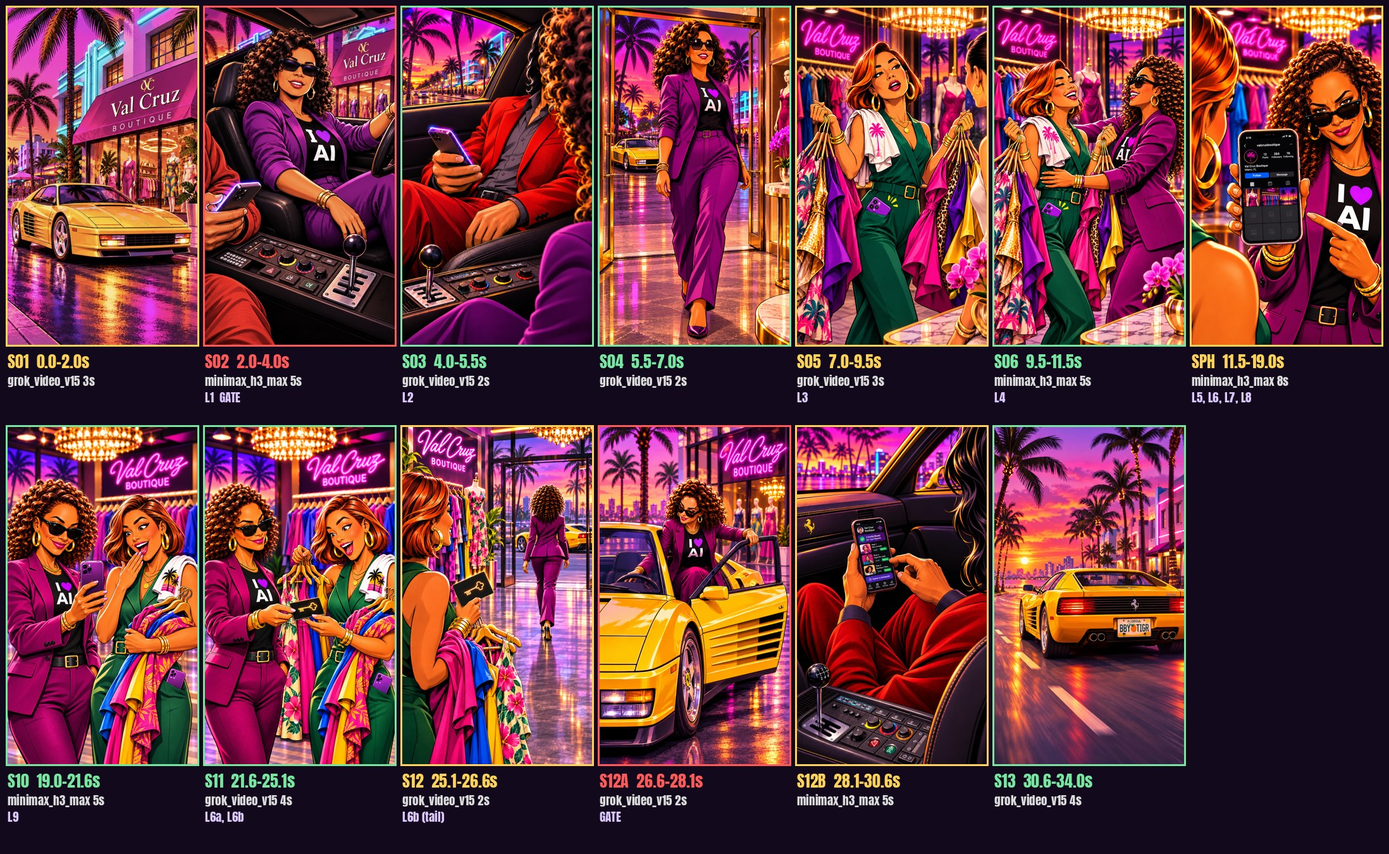
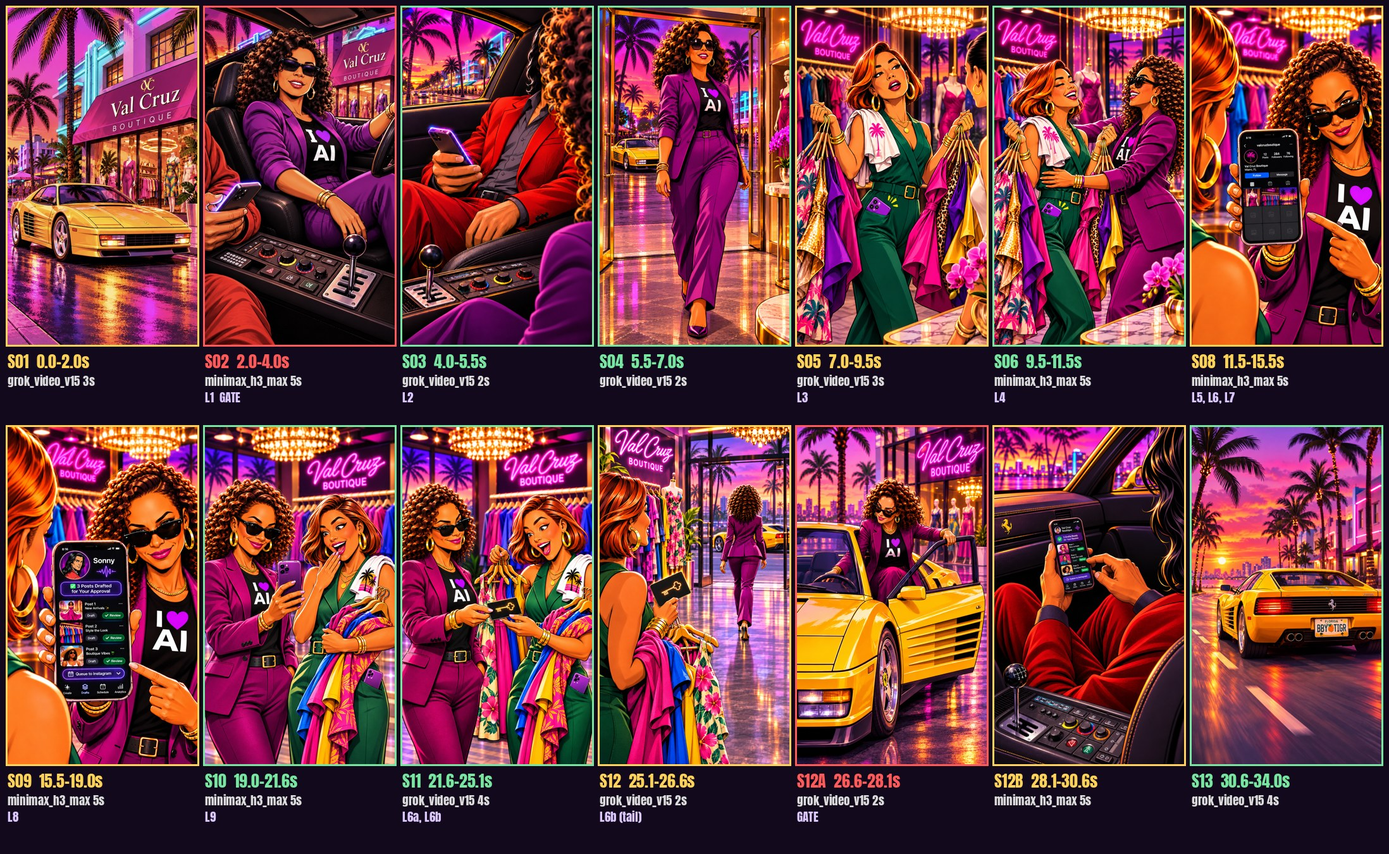
EP03: restore S09 (Sonny drafts on Noelle's phone) as its own shot
v1 merged S08/S09 and only borrowed S09's screen. Now S08 11.5-15.5 and
S09 15.5-19.0 with a punch-in cut and post-built draft/review/queue animation.

Claude-Session: https://claude.ai/code/session_01Qa5QbNHL5aow6tTLM7cmJz

diff --git a/video-projects/unlocking-ai-miami-takeover/scripts/ep03/build_manifest.py b/video-projects/unlocking-ai-miami-takeover/scripts/ep03/build_manifest.py
@@ -56,16 +56,21 @@ shots = [
   "Noelle and Val laugh together warmly; Noelle gives Val a gentle side hug, Val keeps holding all the hangers. Small natural head and shoulder movement only, curls moving softly. Static camera.",
   ["neon sign", "chandelier", "dresses on hangers"], "static", dialogue="L4",
   extra={"lipsync": "test on Noelle only; fallback: line plays over the laugh, no sync", "notes": "Arm check passed at 4x: Noelle has one arm across Val's back and one hand at Val's waist."}),
- shot("PH", [11.5, 19.0], "S08_user_instagram.png", "minimax_h3_max 768p start=end=keyframe + post-built phone screen", 8,
-  "Merged S07+S08+S09: Noelle calls out the ghost-town Instagram, Val admits it, 'I know a guy', screen transforms into Sonny's drafts",
+ shot("08", [11.5, 15.5], "S08_user_instagram.png", "minimax_h3_max 768p start=end=keyframe (src 0-4.0s) + original screen re-composited", 5,
+  "Noelle calls out the ghost-town Instagram; Val admits it; 'I know a guy'",
   "Noelle holds the phone steady toward camera and points at it, with a small playful head tilt and a knowing smirk while she talks. The phone does not move or rotate. Val's hair at the left edge sways slightly. Static camera.",
-  ["phone size, position, angle and screen (screen is replaced in post)", "neon sign"], "static",
-  dialogue=["L5", "L6", "L7", "L8"],
-  extra={"screen": "post-built (scripts/ep03/sonny_ui_anim.py, Stage B): 11.5-15.8 sparse grid from S08 frame; 15.8 wipe to Sonny UI; drafts 1-3 pop at 16.0/16.6/17.2 marked 'Draft'; Review chips turn green 17.8-18.4; 'Queue to Instagram' stays unpressed. Thumbnails and layout cut from S09_user_sonny_drafts.png with a feathered mask and fitted to the S08 phone with a perspective warp.",
-          "why_merged": "Only one keyframe exists for S07/S08, and S08/S09 are near-identical compositions. Project rule: never jump-cut near-identical keyframes; merge and build the change in post.",
-          "lipsync": "Noelle lines L5 and L7 only", "secondary_keyframe": kf("S09_user_sonny_drafts.png"),
-          "flags": ["S09 app header shows Sonny's full face as the avatar, which breaks the 'face concealed' rule. Plan: replace it in post with a hair-silhouette and waveform badge.",
-                    "Instagram-style profile shows '12 Posts' but only 3 tiles are filled. Harmless, and leave it (no numbers are animated)."]}),
+  ["phone size, position, angle and screen", "neon sign"], "static; last 0.35s free digital push-in toward the phone, matching S09's phone scale for the cut",
+  dialogue=["L5", "L6", "L7"],
+  extra={"screen": "The keyframe's own sparse-grid screen is masked and re-composited each frame so text can't warp.", "lipsync": "Noelle lines L5 and L7 only",
+         "flags": ["Instagram-style profile shows '12 Posts' but only 3 tiles are filled. Harmless; leave it (no numbers are animated)."]}),
+ shot("09", [15.5, 19.0], "S09_user_sonny_drafts.png", "minimax_h3_max 768p start=end=keyframe (src 0-3.5s) + post-built screen animation", 5,
+  "Noelle shows Sonny at work on her phone: drafts appear and get queued for Val's review",
+  "Noelle holds the phone up close to camera and points at the screen with her other hand, confident smirk, curls moving softly. The phone does not move or rotate. Val's shoulder and hair stay in the left foreground. Static camera.",
+  ["phone size, position, angle and screen (screen animated in post)", "neon sign", "chandelier"], "static",
+  dialogue=["L8"],
+  extra={"cut_in": "Punch-in on a whoosh at 15.5: S08 ends on a digital push toward the phone, so the bigger S09 phone reads as Noelle thrusting it at Val, not as a jump cut between near-identical frames.",
+         "screen": "post-built over the user's frame (scripts/ep03/sonny_ui_anim.py, Stage B): 15.5 Sonny header, waveform animating while L8 plays; banner '3 Posts Drafted for Your Approval' types in; Posts 1-3 pop in at 15.9/16.5/17.1 tagged 'Draft'; each 'Review' chip lights green with a tick 17.6/17.9/18.2; 'Queue to Instagram' and the Schedule tab pulse at 18.4 (highlighted, not pressed: Val still has to approve). All elements cut from this frame with feathered masks, so the layout is exactly the user's.",
+         "flags": ["App avatar shows Sonny's full face, which breaks 'face concealed' (G4). Plan: cover it in post with a hair-silhouette and waveform badge."]}),
  shot("10", [19.0, 21.6], "S10_user.png", "minimax_h3_max 768p start=end=keyframe", 5,
   "Val's amazed reaction (src 0-2.6s)",
   "Val's eyes widen and she gasps in delighted disbelief, hand at her mouth, then speaks excitedly, holding her clothes. Noelle beside her smiles calmly at her phone. Small natural movement only. Static camera.",
@@ -105,10 +110,10 @@ dialogue = [
  {"id": "L2", "speaker": "SONNY", "text": "Nah, I'm good here.", "shot": "03", "mode": "off-camera, no sync"},
  {"id": "L3", "speaker": "VAL", "text": "Noelle! Girl!", "shot": "05", "mode": "lipsync"},
  {"id": "L4", "speaker": "NOELLE", "text": "Val! What is going on here?", "shot": "06", "mode": "over laugh (sync test)"},
- {"id": "L5", "speaker": "NOELLE", "text": "Your Instagram's a ghost town!", "shot": "PH", "mode": "lipsync"},
- {"id": "L6", "speaker": "VAL", "text": "I barely have time to post!", "shot": "PH", "mode": "off-camera"},
- {"id": "L7", "speaker": "NOELLE", "text": "I know a guy.", "shot": "PH", "mode": "lipsync"},
- {"id": "L8", "speaker": "SONNY", "text": "Three posts ready for your approval.", "shot": "PH", "mode": "device audio (phone EQ)"},
+ {"id": "L5", "speaker": "NOELLE", "text": "Your Instagram's a ghost town!", "shot": "08", "mode": "lipsync"},
+ {"id": "L6", "speaker": "VAL", "text": "I barely have time to post!", "shot": "08", "mode": "off-camera"},
+ {"id": "L7", "speaker": "NOELLE", "text": "I know a guy.", "shot": "08", "mode": "lipsync"},
+ {"id": "L8", "speaker": "SONNY", "text": "Three posts ready for your approval.", "shot": "09", "mode": "device audio (phone EQ)"},
  {"id": "L9", "speaker": "VAL", "text": "Wait! He did all that? How do I get this?", "shot": "10", "mode": "lipsync"},
  {"id": "L6a", "speaker": "NOELLE", "text": "(event slot)", "shot": "11", "mode": "VO, lips closed"},
  {"id": "L6b", "speaker": "NOELLE", "text": "(event slot)", "shot": "11-12", "mode": "VO"},
@@ -132,7 +137,7 @@ captions = [
  {"id": "c5", "text": "Your Instagram's a ghost town!", "t": [11.65, 13.5], "y": 1600},
  {"id": "c6", "text": "I barely have time to post!", "t": [13.55, 15.1], "y": 1600},
  {"id": "c7", "text": "I know a guy.", "t": [15.15, 16.2], "y": 1600},
- {"id": "c8", "text": "\"Three posts ready for your approval.\"", "t": [16.25, 18.95], "y": 1600},
+ {"id": "c8", "text": "\"Three posts ready for your approval.\"", "t": [16.25, 18.95], "y": 1660},
  {"id": "c9", "text": "Wait! He did all that? How do I get this?", "t": [19.05, 21.55]},
  {"id": "c10", "text": "", "t": [21.7, 22.9]},
  {"id": "c11", "text": "", "t": [23.0, 26.0]},
@@ -143,9 +148,9 @@ sfx = [
  {"type": "boutique_ambience", "at": 5.5, "dur": 19.6, "gain_db": -24},
  {"type": "door_chime", "at": 5.6},
  {"type": "fabric_rustle", "at": 7.1}, {"type": "fabric_rustle", "at": 8.6},
- {"type": "whoosh", "at": 15.75, "_note": "screen wipe to Sonny UI"},
- {"type": "ping", "at": 16.0}, {"type": "ping", "at": 16.6}, {"type": "ping", "at": 17.2},
- {"type": "click", "at": 17.8}, {"type": "click", "at": 18.1}, {"type": "click", "at": 18.4},
+ {"type": "whoosh", "at": 15.4, "_note": "punch-in to S09"},
+ {"type": "ping", "at": 15.9}, {"type": "ping", "at": 16.5}, {"type": "ping", "at": 17.1},
+ {"type": "click", "at": 17.6}, {"type": "click", "at": 17.9}, {"type": "click", "at": 18.2}, {"type": "chime", "at": 18.4},
  {"type": "card_accent", "at": 22.1, "_note": "low shimmer + soft hit as the card changes hands"},
  {"type": "door_open", "at": 26.7}, {"type": "door_close", "at": 27.95},
  {"type": "click", "at": 29.0}, {"type": "click", "at": 29.6},
@@ -163,7 +168,7 @@ m = {
  "license_plate": "BBY TIGR visible in S13 frame 0.",
  "video_model": {"model": "grok_video_v15", "resolution": "720p", "cost_per_s": 4.5, "anchored": "minimax_h3_max 768p, 12.5 per 5s (verified 2026-11-22)"},
  "shots": shots, "dialogue": dialogue, "captions": captions,
- "overlays": [{"file": "title.png", "t": [0.3, 1.9]}, {"file": "sonny_lt.png", "t": [15.8, 18.9]}, {"file": "endcard.png", "t": [31.4, 34.0]}],
+ "overlays": [{"file": "title.png", "t": [0.3, 1.9]}, {"file": "sonny_lt.png", "t": [15.6, 18.9]}, {"file": "endcard.png", "t": [31.4, 34.0]}],
  "audio_edit": audio_edit, "sfx_cues": sfx,
  "end_card": {"lines": ["UNLOCKING AI CHALLENGE", "BUILD AN AI-AMPLIFIED BUSINESS"], "registration": "", "window": [31.4, 34.0]},
  "music_file": "audio/music/ep03_retro_action_34s.mp3",

diff --git a/video-projects/unlocking-ai-miami-takeover/manifests/ep03-production-sheet.md b/video-projects/unlocking-ai-miami-takeover/manifests/ep03-production-sheet.md
@@ -28,9 +28,9 @@ Files are in `episodes/03-sonny-social-media/keyframes/user/`: byte-identical co
 | 04 | S04_user.png | 942x1670 | OK. Ferrari parked outside, Noelle alone. |
 | 05 | S05_user.png | 942x1670 | **G5.** Right edge shows part of a third person (straight dark hair, white top) who is not Noelle. Plan: 1.12x post crop. |
 | 06 | S06_user.png | 941x1671 | OK. Arms: Noelle 2 (back + waist), Val 2 (hangers). |
-| 07 | — | — | **No frame.** Merged into shot PH (see 4). |
+| 07 | — | — | **No frame.** Its line plays in shot 08 (see 4). |
 | 08 | S08_user_instagram.png | 941x1672 | OK. Sparse grid, 3 tiles. |
-| 09 | S09_user_sonny_drafts.png | 941x1670 | **G4.** App avatar shows Sonny's **full face**, which breaks "face concealed". Used as the screen-content source only. |
+| 09 | S09_user_sonny_drafts.png | 941x1670 | **G4.** App avatar shows Sonny's **full face**, which breaks "face concealed". Its own shot, 15.5–19.0s. |
 | 10 | S10_user.png | 941x1672 | OK. Val gasp, Noelle compact curls. |
 | 11 | S11_user.png | 941x1672 | OK. Arms: Noelle 2 (pocket + card), Val 2. Gold key readable. |
 | 12 | S12_user.png | 941x1672 | OK. Car through the door reads a bit modern (round tail lamps), minor. |
@@ -63,15 +63,16 @@ Files are in `episodes/03-sonny-social-media/keyframes/user/`: byte-identical co
 | 4 | 04 | 5.5–7.0 | grok 2s | Noelle walks in alone | door chime, ambience in |
 | 5 | 05 | 7.0–9.5 | grok 3s + 1.12x crop | Juggling dresses, frazzled, **L3 lip sync** | rustle |
 | 6 | 06 | 9.5–11.5 | minimax anchored 5s (0–2.0) | Laugh/hug | **L4** over laugh |
-| 7 | **PH** (07+08+09) | 11.5–19.0 | minimax anchored 8s on S08 + **post-built screen** | Ghost-town grid, then wipe at 15.8 to Sonny UI; drafts pop 16.0/16.6/17.2 tagged *Draft*; Review chips go green 17.8–18.4; *Queue* never pressed. Lower third SONNY 15.8–18.9 | **L5, L7** lip sync; **L6** Val off-cam; **L8** Sonny phone-EQ; whoosh, 3 pings, 3 clicks |
-| 8 | 10 | 19.0–21.6 | minimax anchored 5s (0–2.6) | Gasp → delight, **L9 lip sync** | — |
-| 9 | 11 | 21.6–25.1 | grok 4s | Card offered; Val fumbles clothes, takes it | **L6a** "Glad you asked." (VO), card accent, **L6b** from 23.0 |
-| 10 | 12 | 25.1–26.6 | grok 2s | Noelle exits, Val keeps card | L6b tail |
-| 11 | 12A | 26.6–28.1 | grok 2s (**G2**) | Settles into seat | door open/close |
-| 12 | 12B | 28.1–30.6 | minimax anchored 5s + post screen | Two taps; "Review" highlights. Payoff to "I'm good here" | 2 clicks |
-| 13 | 13 | 30.6–34.0 | grok 4s | Drive-off; end card 31.4–34.0 | engine rev + accel; music out ~33.5 |
+| 7 | **08** (brief 07+08) | 11.5–15.5 | minimax anchored 5s (0–4.0) | Noelle shows the ghost-town grid (original screen re-composited); last 0.35s digital push toward the phone | **L5, L7** lip sync; **L6** Val off-cam |
+| 8 | **09** Sonny at work | 15.5–19.0 | minimax anchored 5s (0–3.5) on **your S09 frame** + post-built screen | Punch-in on a whoosh. Waveform animates while Sonny speaks; banner types in; Posts 1–3 pop in as *Draft* (15.9/16.5/17.1); Review chips tick green (17.6–18.2); *Queue to Instagram* + Schedule tab pulse at 18.4 (highlighted, not pressed). Lower third SONNY 15.6–18.9 | **L8** Sonny phone-EQ; whoosh, 3 pings, 3 clicks, chime |
+| 9 | 10 | 19.0–21.6 | minimax anchored 5s (0–2.6) | Gasp → delight, **L9 lip sync** | — |
+| 10 | 11 | 21.6–25.1 | grok 4s | Card offered; Val fumbles clothes, takes it | **L6a** "Glad you asked." (VO), card accent, **L6b** from 23.0 |
+| 11 | 12 | 25.1–26.6 | grok 2s | Noelle exits, Val keeps card | L6b tail |
+| 12 | 12A | 26.6–28.1 | grok 2s (**G2**) | Settles into seat | door open/close |
+| 13 | 12B | 28.1–30.6 | minimax anchored 5s + post screen | Two taps; "Review" highlights. Payoff to "I'm good here" | 2 clicks |
+| 14 | 13 | 30.6–34.0 | grok 4s | Drive-off; end card 31.4–34.0 | engine rev + accel; music out ~33.5 |
 
-Why PH is one shot: there is only one frame for brief shots 07/08, and S08/S09 are near-identical compositions. Project rule: never jump-cut near-identical frames; merge them and build the change in post. That also gives the "drafts appear sequentially, review indicators" beat crisp text that grok can't warp.
+Shots 08 and 09: v1 of this sheet merged them and only borrowed S09's screen, so the S09 frame never appeared. Corrected at the director's note: S09 is its own shot. Brief shot 07 has no frame, so its line plays in 08. The 08→09 cut is a motivated punch-in (S09's phone is larger), not a jump cut between near-identical frames. All on-screen UI is animated in post, so the text stays crisp.
 
 Why no 12M plate pull-back: BBY TIGR is already readable in S13 frame 0 and the car is moving, so the drive-off itself flows continuously.
 
@@ -120,14 +121,14 @@ Timing changes vs. the brief (proposed, not forced): S10 2.0 → 2.6s and S11 3.
 | Item | Credits |
 |---|---|
 | grok: S01 3, S03 2, S04 2, S05 3, S11 4, S12 2, S12A 2, S13 4 = 22s | 99.0 |
-| minimax anchored: S02, S06, S10, S12B (4×5s) + PH 8s | 50.0 + ~20.0 |
+| minimax anchored: S02, S06, S08, S09, S10, S12B (6×5s) | 75.0 |
 | sync_so lip sync ~9.5s (L1, L3, L5, L7, L9, L4 test) | ~34 |
 | Voices: 6 candidates + 10 lines | ~4 |
 | Music 34s | ~5 |
-| **Subtotal** | **~212** (~203 without 12A) |
-| +15% retake buffer | **~245** |
+| **Subtotal** | **~217** (~208 without 12A) |
+| +15% retake buffer | **~250** |
 
-Balance 878.22 → ~633 after the full episode incl. buffer. Ep02 cost 260.
+Balance 878.22 → ~628 after the full episode incl. buffer. Ep02 cost 260.
 
 ## 9. Widescreen 16:9 (deferred, per project rule)
 
